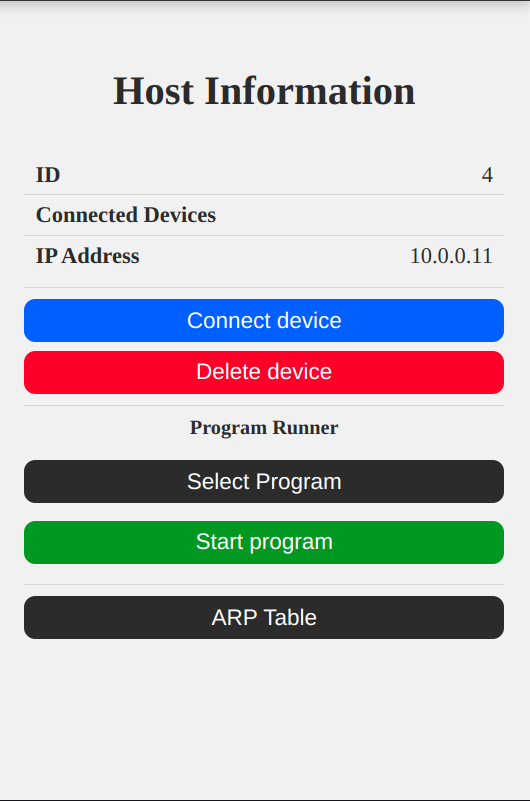
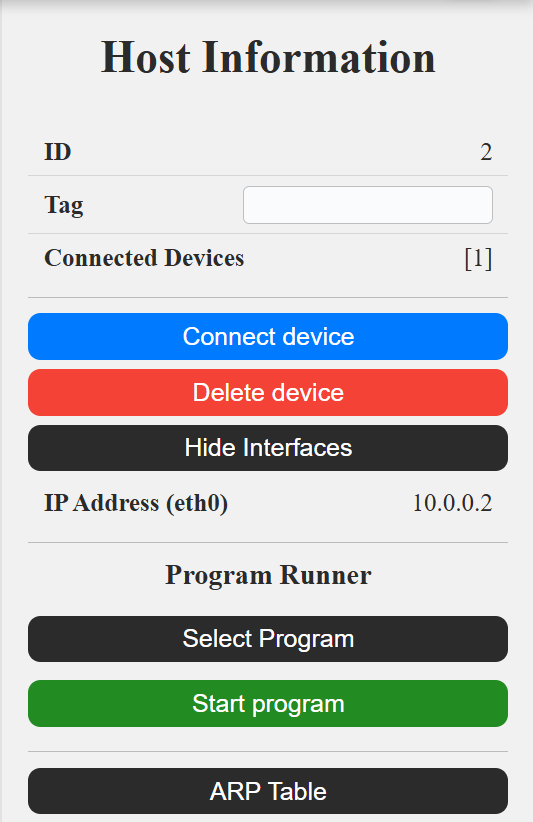
Doc/ Fixes on the previous version of the User Manual (#264)
This PR tries to finish the User manual entries and correct the Images
or gifs that become outdated due to new features.

diff --git a/README.md b/README.md
@@ -153,8 +153,6 @@ The available layers are:
   <img src="./img/06_Canvas_Buttons.gif" alt="Canvas Overview" />
 </p>
 
-This introductory information is also shown on the right bar when nothing is selected.
-
 ## Devices and Edges
 
 ### Host
@@ -176,13 +174,13 @@ In the simulator, a host is visible on all layers. Given the fact that hosts are
 The information shown in the right bar when selecting a host is as follows:
 
 - **ID**: The ID of the host. This is a simulated unique identifier for the host in the network.
+- **Tag entry**: The tag of the host. This entry allows you to set a personalized name for the host.
 - **Connected Devices**: The devices that are directly connected to this host through edges.
-- **MAC Address**: The MAC address of the host. This is only visible in the Link Layer.
-- **IP Address**: The IP address of the host. This is always visible.
 - **Connect Device Button**: This button allows you to connect the host to another device. First press the Connect Device button and then click on the device you want to connect to. This will create an edge between the two devices. You can only connect
   devices if the host and the other device have free interfaces.
   When you connect a host to another device, it will link the first two unused interfaces of each device. You can change the interfaces used to connect the devices by selecting the [edge](#devices-interfaces) that connects them.
 - **Delete Device Button**: This button allows you to delete the host from the network. This will also delete all edges connected to this host.
+- **Show/Hide Interfaces Button**: This button allows you to show or hide the interfaces of the host. When the interfaces are shown, you can see the IP address and the MAC address of each interface. This is useful to understand how the host is connected to the network. MAC addresses are only visible in the Link Layer.
 - **Program Runner Section**: This section includes a dropdown to select a program and a second button to start the program after
   selecting the program inputs.
 - **ARP Table**: This table shows the translation of the different IP Adresses translations into MAC Adresses. It also allows to edit and refresh these translations.
@@ -214,13 +212,13 @@ In the simulator, the routers are visible from the Network layer downward. Route
 The information shown in the right bar when selecting a router is as follows:
 
 - **ID**: The ID of the router. This is a simulated unique identifier for the router in the network.
+- **Tag entry**: The tag of the router. This entry allows you to set a personalized name for the router.
 - **Connected Devices**: The devices that are directly connected to this router through edges.
-- **MAC Address**: The MAC address of the router. This is only visible in the Link Layer.
-- **IP Address**: The IP address of the router. This is always visible.
 - **Connect Device Button**: This button allows you to connect the router to another device. First press the Connect Device button and then click on the device you want to connect to. This will create an edge between the two devices. You can only connect
   devices if the host and the other device have free interfaces.
   When you connect a router to another device, it will link the first two unused interfaces of each device. You can change the interfaces used to connect the devices by selecting the [edge](#devices-interfaces) that connects them.
 - **Delete Device Button**: This button allows you to delete the router from the network. This will also delete all edges connected to this router.
+- **Show/Hide Interfaces Button**: This button allows you to show or hide the interfaces of the router. When the interfaces are shown, you can see the IP address and the MAC address of each interface. This is useful to understand how the router selects each packet route through the network. MAC addresses are only visible in the Link Layer.
 - **Packet Queue Usage Bar**: This bar shows the usage of the packet queue of the router. The packet queue is used to store packets that are waiting to be processed by the router. The bar shows the percentage of the queue that is currently in use. If the queue is full, the router will drop packets until there is space in the queue.
 - **Router Parameters Dropdown**: This dropdown allows you to select the parameters of the router. The parameters are:
   - **Packet Queue Size [bytes]**: The amount of bytes that the router can store in its queue. This is the maximum size of the queue. The default value is 4096 bytes.
@@ -257,13 +255,14 @@ In the simulator, the switches are only in the Link Layer. As switches are used 
 The information shown in the right bar when selecting a switch is as follows:
 
 - **ID**: The ID of the switch. This is a simulated unique identifier for the switch in the network.
+- **Tag entry**: The tag of the switch. This entry allows you to set a personalized name for the switch.
 - **Connected Devices**: The devices that are directly connected to this switch through edges.
-- **MAC Address**: The MAC address of the switch.
 - **Connect Device Button**: This button allows you to connect the switch to another device. First press the Connect Device button and then click on the device you want to connect to. This will create an edge between the two devices. You can only connect
   devices if the host and the other device have free interfaces.
   When you connect a switch to another device, it will link the first two unused interfaces of each device. You can change the interfaces used to connect the devices by selecting the [edge](#devices-interfaces) that connects them.
 - **Delete Device Button**: This button allows you to delete the switch from the network. This will also delete all edges connected to this switch.
-- **Switching Table**: This table shows the MAC Address and the port in which that Address is assigned.
+- **Show/Hide Interfaces Button**: This button allows you to show or hide the interfaces of the switch. When the interfaces are shown, you can see the MAC address of each interface. This is useful to understand how the switch forwards packets through the network. Switches only deal with MAC Addresses.
+- **Forwarding Table**: This table shows the MAC Address and the port in which that Address is assigned.
   This table is used by the switch to forward data packets to the correct destination. You can edit the entries of the table to fit your desired switching scheme. You can also restore the default state of the table by pressing the reset button on the top right corner.
 
 #### Switch Hover
@@ -322,7 +321,7 @@ When you select an edge that connects two devices, you will see a dropdown menu 
 
 <p align="center">
   <img src="./img/17_Host_Interfaces.png" alt="Host Interfaces" />
-  <img src="./img/18_Router_Interfaces.png" alt="Router Interfaces" />
+  <img src="./img/18_Router_Interfaces.png" alt="Router Interfaces" />![alt text](image.png)
   <img src="./img/19_Switch_Interfaces.png" alt="Switch Interfaces" />
 </p>
 
@@ -511,7 +510,7 @@ The simulator has a print button that allows you to take a snapshot of the curre
 
 The simulator has some keyboard shortcuts to make it easier to use. The shortcuts are as follows:
 
-- **C**: Connect a device to another device. This is the same as pressing the Connect Device button on the right bar. It will only work if the devices involved hace free interfaces.
+- **C**: Connect a device to another device. This is the same as pressing the Connect Device button on the right bar. It will only work if the devices involved have free interfaces.
 - **H**: Open the help modal. This is the same as pressing the Help button on the top bar.
 - **Delete/Backspace**: Delete the selected device, edge or packet. This is the same as pressing the Delete Device, Delete Edge and Discard Packet buttons on the right bar.
 - **SpaceBar**: Play or pause the simulation. This is the same as pressing the Play/Pause button on the canvas.
